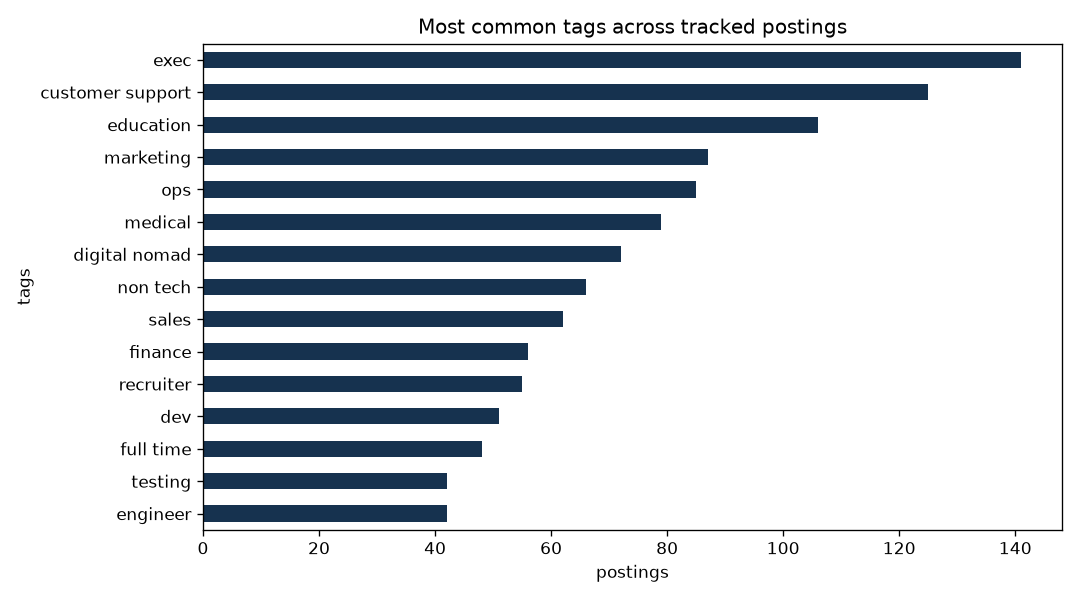
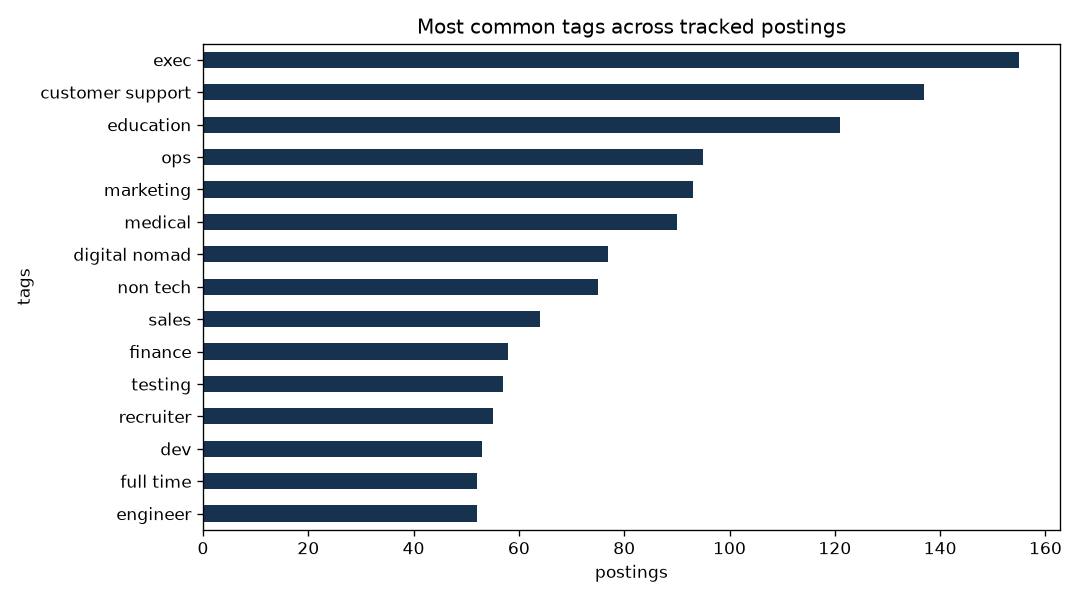
Daily data update

diff --git a/README.md b/README.md
@@ -13,14 +13,14 @@ reporting end to end.
 ## Dashboard
 
 <!-- dashboard:start -->
-*Last updated: 2026-09-08 17:04 UTC*
+*Last updated: 2026-09-09 17:02 UTC*
 
 | | |
 |---|---|
-| Postings tracked | 243 |
-| Companies | 204 |
-| New since last run | 0 |
-| Data/ML-related share | 18% |
+| Postings tracked | 260 |
+| Companies | 216 |
+| New since last run | 17 |
+| Data/ML-related share | 21% |
 
 ![Postings per week](reports/figures/postings_per_week.png)
 
